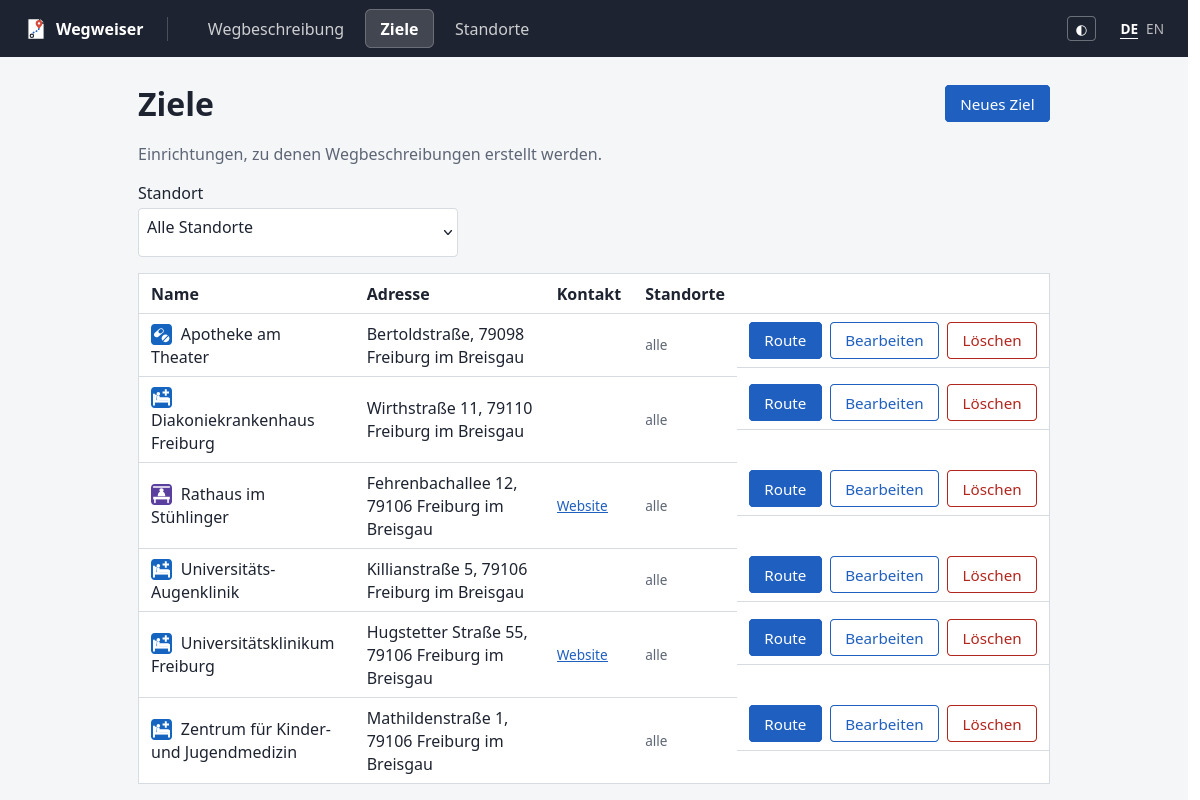
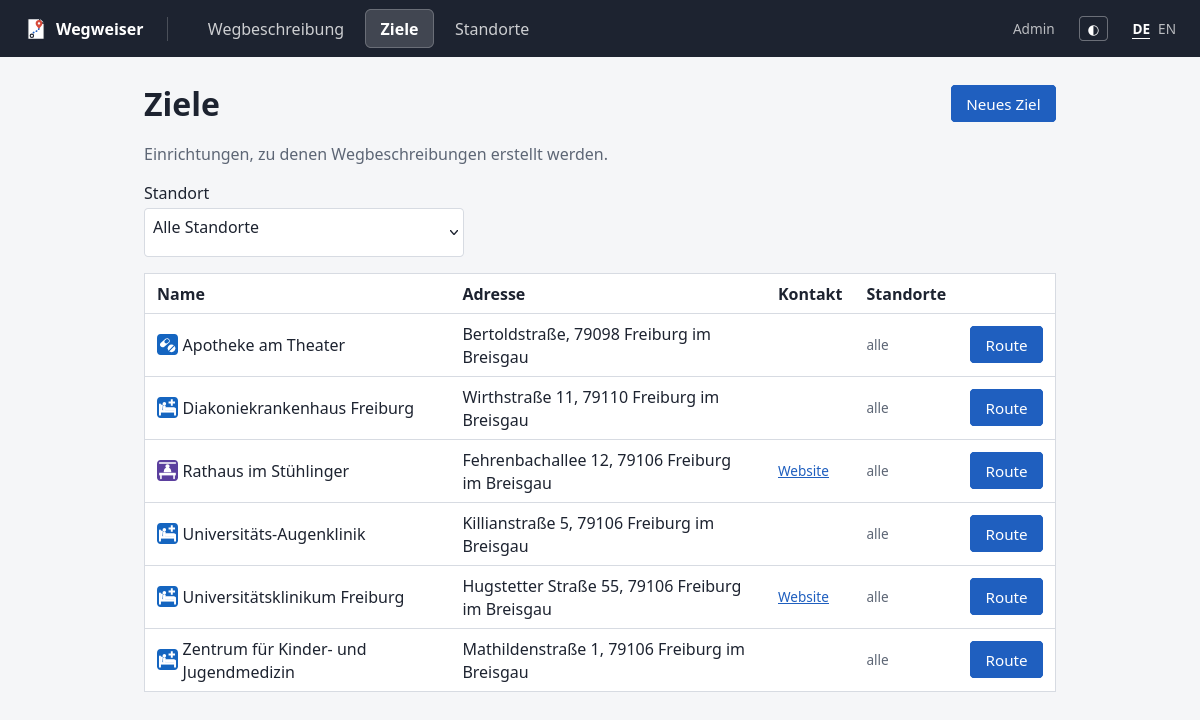
Docs: update CLAUDE.md and README screenshots
Server PDFs mentioned in the print section, settled decisions removed.
Screenshots retaken with the Freiburg sample data.

Changed region(s): [[0.0925, 0.1222, 0.8942, 0.9778], [0.0, 0.0, 1.0, 0.1833], [0.4625, 0.3667, 0.6167, 0.3972]]

diff --git a/CLAUDE.md b/CLAUDE.md
@@ -25,7 +25,7 @@ Open-Source-Projekt (EUPL-1.2). Jede Organisation betreibt ihre eigene Instanz; 
    - Adresse und Kontaktdaten des Ziels
    - QR-Codes (siehe unten)
    - Erstellungsdatum und Quellenangaben (Pflicht, siehe Datenquellen)
-   - Ausgabe über die Druckfunktion des Browsers („Als PDF speichern“) mit sauberem `@media print`-CSS
+   - sauberes `@media print`-CSS; Ausgabe über die Druckfunktion des Browsers oder als Server-PDF (Button „Als PDF“, siehe Punkt 6)
 5. **Rechte**: Ohne Anmeldung Wegbeschreibungen erstellen und neue Ziele anlegen (Status „pending“, sofort nutzbar, im selben Browser korrigierbar). Admins (Konten in der DB, `app/auth.py`, erstes Konto per `python -m app.admin_cli`) bestätigen neue Ziele und dürfen allein bearbeiten, löschen, Standorte anlegen, Ziele Standorten zuordnen und ÖPNV-Standardwerte speichern. Jede ändernde Aktion ist ein POST; Cookies SameSite=Lax. `AUTH_MODE=off` schaltet die Anmeldung ganz ab (eigener PC). **Rechte nur über `auth.can(request, "<aktion>")` / `auth.require(...)` bzw. `Allowed("<aktion>")` prüfen**, nie direkt über `current_admin`; so kann später ein Modus mit Benutzerkonten und Rollen je Standort dazukommen, ohne alle Seiten anzufassen. Mehrere Organisationen = mehrere Instanzen, keine Mandantenfähigkeit.
 6. **Server-PDFs und Massenexport** (`app/services/pdf.py`, `export.py`, Namen in `app/export_names.py`): Playwright/Chromium rendert die Druckansicht (wartet auf `<html data-print-ready>`), Kacheln laufen über einen Disk-Cache (7 Tage, gedrosselt); immer nur ein Browser gleichzeitig. Tests nutzen einen Fake-Renderer.
 7. **Regionale Zusätze** (`app/regions/<key>/region.json` + Dateien, Loader `app/regions.py`): alles, was nur für eine Stadt gilt (z. B. TüBus-Liniensymbole und -farben), gehört in einen solchen Zusatz, nicht in Kern-Code oder Migrationen; abschaltbar über `REGIONS`. Linien ohne Farbe: Farbe nach Verkehrsmittel (DB-Beschilderung, `transit.MODE_COLORS`).
@@ -101,6 +101,4 @@ Dockerfile
 - Auf dem Zielserver laufen andere Dienste: keine Docker-Befehle ausführen, die fremde Container, Netzwerke oder Volumes betreffen (kein `docker system prune` o. Ä.)
 
 ## Offene Entscheidungen
-- Port und Hostname im Heimnetz
-- Kartenkachel-Anbieter für den Druck (OSM-Standard vs. Alternative)
-- Zeitpunkt für den Umstieg auf selbst gehostetes Routing und ÖPNV
+- Kartenkachel-Anbieter für den Druck: vorerst OSM-Standard (`TILE_URL` umstellbar); Wechsel erst bei vielen Standorten oder wenn Verfügbarkeit zugesichert sein muss

diff --git a/README.md b/README.md
@@ -93,7 +93,7 @@ Nicht benötigte Zusätze lässt man weg, indem man den Ordner löscht oder in `
 
 Standorte (Startpunkte) und Ziele werden einmal angelegt und stehen danach per Auswahlliste bereit. Ein neues Ziel sucht man über Name oder Adresse in OpenStreetMap; Adresse, Koordinaten, Telefon, Website, Öffnungszeiten, Kategorie und übersetzte Namen werden vorbefüllt und lassen sich korrigieren. Ziele können einzelnen Standorten zugeordnet werden.
 
-![Liste der Ziele](docs/screenshots/destinations.png)
+![Liste der Ziele, Ansicht ohne Anmeldung](docs/screenshots/destinations.png)
 
 ## Admins und Rechte
 
